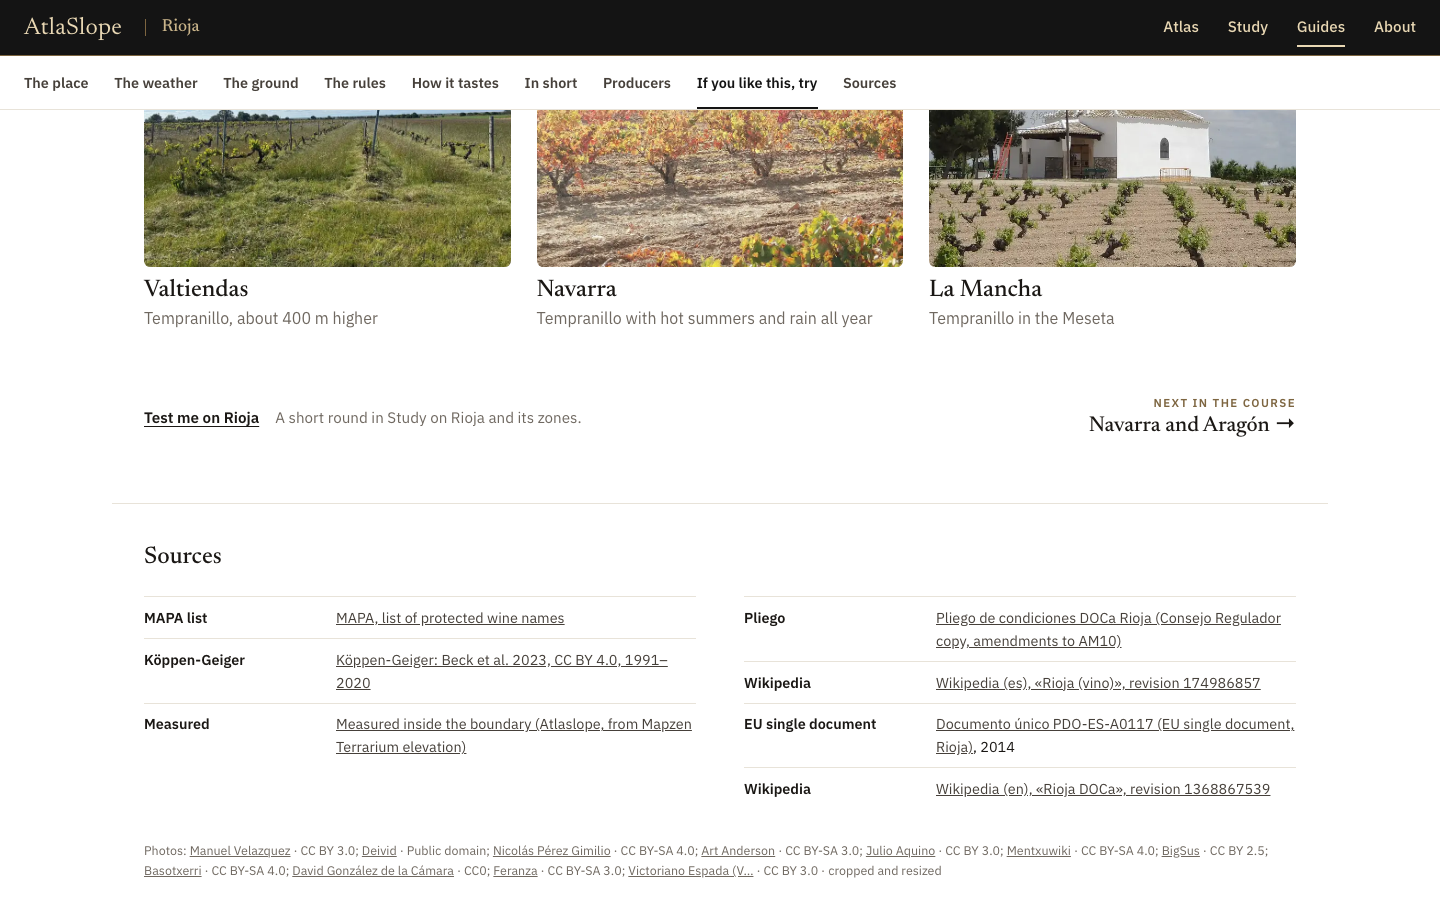
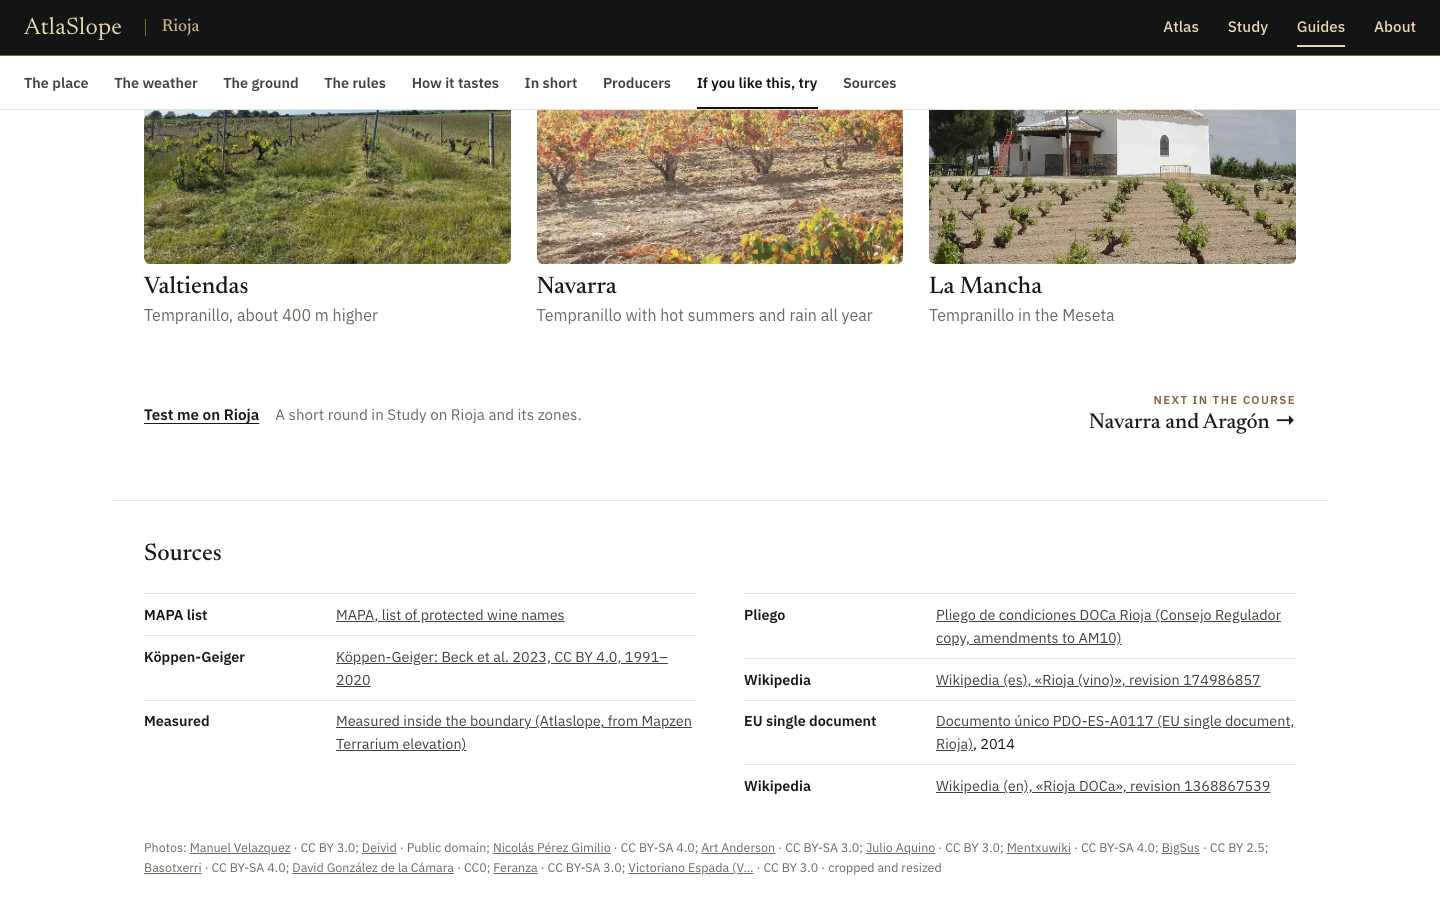
Mock guide redesign r1: design review fixes (D numbers and overflow, button stays in A/B/D, no repeated button photo, map band link on one line); fix check script

diff --git a/Review/mock-guide-redesign-r1/nr.js b/Review/mock-guide-redesign-r1/nr.js
@@ -14,9 +14,8 @@
   addEventListener('scroll', pick, { passive: true });
   pick();
   document.querySelectorAll('.g-bigbtn').forEach((b) => b.addEventListener('click', () => {
-    if (parent !== window) { parent.postMessage({ sg: 'unfold-in-c' }, '*'); return; }
     let n = document.querySelector('.g-note');
     if (!n) { n = document.createElement('p'); n.className = 'g-note'; b.after(n); }
-    n.textContent = 'The unfold is shown in option C.';
+    n.textContent = 'The unfold is built in option C. Try it there.';
   }));
 })();

diff --git a/Review/mock-guide-redesign-r1/opt-d.css b/Review/mock-guide-redesign-r1/opt-d.css
@@ -72,5 +72,4 @@
   .o-d .pg-sources{columns:1}.pg-sources li{grid-template-columns:1fr}.pg-short li{grid-template-columns:1fr}
   .o-d .g-jump{padding:0 1rem}.g-band .topnav{gap:1rem}.g-band .topnav a{font-size:.85rem}.g-band .where-r{display:none}
 }
-.d-nums b{white-space:nowrap;font-size:clamp(3rem,6vw,5.4rem)}
-body.o-d{overflow-x:clip}
+@media (min-width:48rem){.d-nums{grid-template-columns:repeat(auto-fit,minmax(19rem,1fr))}.d-nums b{white-space:nowrap;font-size:clamp(2.6rem,4vw,4rem)}}

diff --git a/Review/mock-guide-redesign-r1/c-extra.css b/Review/mock-guide-redesign-r1/c-extra.css
@@ -6,3 +6,5 @@ body:not(.map-off) .top .where{margin-left:auto}
 #closed{background:#fff}
 .grow{position:fixed;z-index:100;overflow:hidden;background:#141414;pointer-events:none}
 .grow img{display:block;width:100%;height:100%;object-fit:cover}
+
+.back{white-space:nowrap}

diff --git a/Review/mock-guide-redesign-r1/build.py b/Review/mock-guide-redesign-r1/build.py
@@ -571,7 +571,7 @@ NPLACES = 9  # "9 places to fly to", as in the live page's map card and the v3 b
 def bigbtn(variant, rec=False):
     """The big photo button: the Rioja valley photo and the black label part with the folded-map glyph (v3 part B, option C style)."""
     cls = 'c-bigbtn' if rec else 'g-bigbtn'
-    return (f'<button type="button" class="{cls} bb bb-{variant}"><span class="bb-ph">{ph("rioja-sierra-1", "bb-img", "The Sierra de Cantabria above the Rioja vineyards")}</span>'
+    return (f'<button type="button" class="{cls} bb bb-{variant}"><span class="bb-ph">{ph("rioja-2" if variant in ("a", "c") else "rioja-1", "bb-img", "Vineyards in Rioja")}</span>'
             f'<span class="bb-lab"><span class="bb-txt"><span class="bb-t">Read with the map</span><span class="bb-s">{G["minutes"]} minutes · {NPLACES} places to fly to</span></span>{GLYPH}</span></button>')
 
 
@@ -677,7 +677,7 @@ def opt_a():
     return (
         f'<div class="a-wrap"><header class="a-head"><p class="a-kick">Terroir · {G["minutes"]}-minute read</p><h1>Rioja</h1>{badges("a-badges")}</header>'
         f'{bigbtn("a")}'
-        f'<div class="a-mosaic">{ph("rioja-2", "m1")}{ph("rioja-1", "m2")}{ph("rioja-oriental-2", "m3")}</div>'
+        f'<div class="a-mosaic">{ph("rioja-1", "m1")}{ph("rioja-oriental-1", "m2")}{ph("rioja-oriental-2", "m3")}</div>'
         f'{jump()}{why("a-why")}'
         f'{beat("place", p_side)}{beat("weather", w_side, w_below)}{beat("ground", g_side)}{beat("rules", r_side, r_below)}'
         f'<section id="c-taste" class="a-taste" aria-labelledby="taste-h"><h2 id="taste-h">How it tastes</h2><div class="a-cards">{taste_items("a-card")}</div><p class="src-line">{TASTE_CITE}</p></section>'

diff --git a/Review/mock-guide-redesign-r1/review-design.md b/Review/mock-guide-redesign-r1/review-design.md
@@ -1,0 +1,22 @@
+# Design review: guide redesign r1 (22 Oct 2026, ReviewBot)
+
+Verdict: fix first. 0 blocker, 4 major, 5 minor. Read the 4 contact sheets, ran two small Playwright scripts (hub toggles, button clicks, D measurements). No re-shoot.
+
+## Major
+1. D, 1440, big-number rows: "63,593 ha" (x 1084-1376, scrollWidth > clientWidth) and "60 months" (x 744-1036, scrollWidth > clientWidth) are wider than their 292 px column at 86 px type; "60 months" runs into "2017" (starts x 1084). Fix: size numbers to the column (clamp, or unit on a second line). [V]
+2. D, 1440, sideways overflow: document scrollWidth 1455 vs 1440 (solo); 1417 vs 1390 inside the hub frame. Hidden by `overflow-x:clip` on body, so the cause (the big-number rows) remains. 390: 390, no overflow. Fix: remove the cause, keep the clip as a backstop. [V]
+3. B, C, D, 1440, photos: every image is the app's 800 px file shown at 1440 wide (full-bleed hero, beat photos 1440 and 720 wide; D 12 images 800/1440, 800/720 ...). Soft at desktop. Fix: use larger sources for hero and full-bleed photos, or cap full-bleed photos at about 800 px wide. [V for D, read for B/C]
+4. A, B, D, photo button: it does not open that option's map. It scrolls the hub to option C (C top at y 72) and opens C's map: the viewer leaves the option being judged. Tested A, B, D: all three land on C with the map open (after 4.5 s). Fix: say so on the button in the mock ("works in C only"), or keep the viewer in place and show a note. [V]
+
+## Minor
+5. Sierra de Cantabria photo twice in A, B and C (button/hero and the beat 1 stop photo). Fix: use a different hero or drop the repeat. [V from sheets]
+6. Phone fold-back (C) lands on a stop card, not the paragraph. Fix: add a text twin or document the fallback. [A, from the builder, not re-run]
+7. C phone, map mode: the top band wraps "Back to Rioja" over two lines next to "Close the map". Fix: shorten or stack. [V, screenshot after-a]
+8. D, Marqués de Murrieta heading is 144 px; the text fits (no overflow measured) but is very large next to everything else; at 390 it wraps to two lines at 51 px. Check taste only. [V]
+9. D and B, 1440 start of page: the title ("Rioja" in B) sits below the hero photo and is cut at the fold. Fix: title above the fold. [read, sheet-b]
+
+## Confirmed with numbers
+- Hub toggle: all four options, Desktop and Phone: frame resizes (1392 desktop, 410 phone), iframe 1390 or 390 wide, no sideways scroll at phone (docScrollW 390), hub scrollWidth 1440 = no hub scroll. Only D desktop has docScrollW 1417 > 1390 (finding 2). [V]
+- Pages hold every section in all four sheets (read). No drawn icons, no text on photos, one credit line per set seen (read, sheets too small to read credit text).
+## Not checked
+Credit wording, photo crops at face level, large-text and reduced-motion beyond the README claims.
